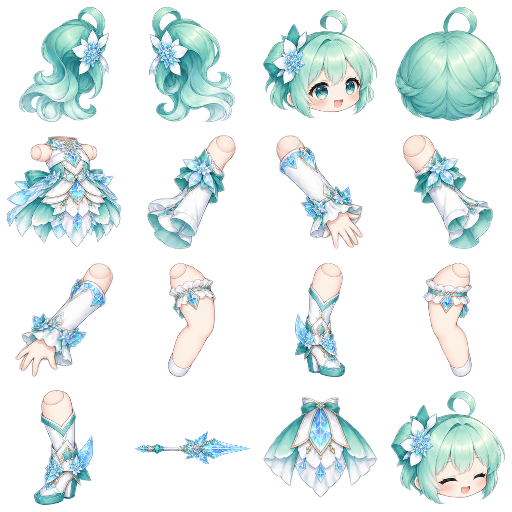
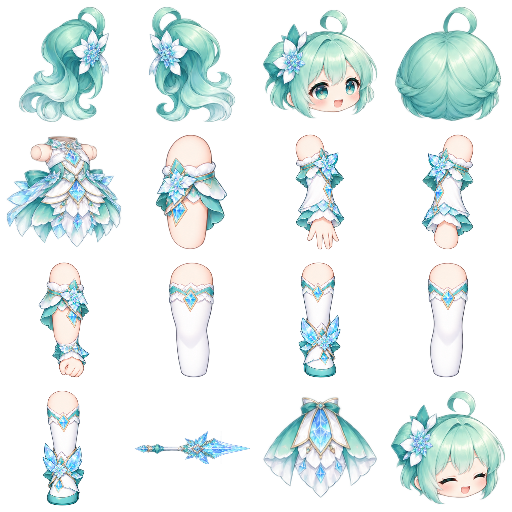
fix(art): rebuild Mint neutral limbs and calibrate joint anchors — v6.0.58

diff --git a/game.js b/game.js
@@ -50,7 +50,7 @@ function clampPlayerStats(p){ if(p._uqGlass){p.maxhp=Math.max(1,Math.round(p.max
 const TAU = Math.PI * 2;   // global — Game scene (บอส/VFX) อ้างถึง TAU ด้วย เดิมประกาศเฉพาะใน Boot.create → "TAU is not defined"
 
 /* ---- เวอร์ชัน + บันทึกUpdates (build-www ดึงไปทำ version.json ให้หน้า download) ---- */
-const GAME_VERSION = '6.0.57';
+const GAME_VERSION = '6.0.58';
 // Miniboss rewards: choose damage at an HP cost, or recovery.
 const CROSSROADS=[
   {id:'blood',name:'Blood Pact',desc:'+25% damage for 90 seconds',detail:'Lose 30% of current HP',artKey:'prize_jackpot',color:0xff6f9d},
@@ -60,6 +60,7 @@ const CROSSROADS=[
 const HURT_IFRAME_MUL = 0.6;
 const RELEASES_URL = 'https://github.com/hardza1230/Survival-like-Mobile-Game/releases/download/latest/mochi-mayhem-debug.apk';
 const CHANGELOG = [
+  { v:'6.0.58', date:'2026-10-01', title:'Mint neutral limb rebuild', items:['Repainted straight bind-pose limbs replace baked bent arms and legs','Shoulder, elbow and hand anchors calibrated to the painted joints','Matched boot stance and relaxed lance grip preserve a coherent silhouette'] },
   { v:'6.0.57', date:'2026-10-01', title:'Mint rig gait and grip correction', items:['Planted feet and two-bone knee solving prevent crossed legs','Shorter chibi stride and distance-based gait smooth walking','Lance remains attached to the hand through casts; relaxed arm pose'] },
   { v:'6.0.56', date:'2026-10-01', title:'Mint 2D cutout rig trial', items:['Painted head, twin tails, arms, legs and lance animate on a joint hierarchy','Walking continues during upper-body lance attacks; hair follows dash movement','Mint keeps its existing physics, skills and saves; original sprites remain as fallback'] },
   { v:'6.0.55', date:'2026-10-01', title:'Temple layout, character EXP and digging fixes', items:['Core gem markers and button labels align with their painted sockets','Sugar balance is capped at 9,999,999 across all save paths','Stage results animate permanent character EXP and move Sugar x2 below rewards','Digging cancels stale animation callbacks and preserves earned treasure when leaving'] },
@@ -4119,12 +4120,12 @@ const ACHIEVEMENTS=[
 ];
 
 // Mint cutout rig: hierarchical bones, rigid painted skins; no mesh/runtime dependency.
-const MINT_RIG_FRAMES = [{"x":18,"y":6,"w":92,"h":116},{"x":148,"y":6,"w":88,"h":116},{"x":262,"y":9,"w":116,"h":110},{"x":394,"y":6,"w":108,"h":116},{"x":6,"y":135,"w":116,"h":113},{"x":146,"y":134,"w":91,"h":116},{"x":275,"y":134,"w":89,"h":116},{"x":402,"y":134,"w":92,"h":116},{"x":14,"y":262,"w":100,"h":116},{"x":167,"y":262,"w":50,"h":116},{"x":294,"y":262,"w":52,"h":116},{"x":422,"y":262,"w":51,"h":116},{"x":33,"y":390,"w":61,"h":116},{"x":134,"y":431,"w":116,"h":33},{"x":262,"y":396,"w":116,"h":103},{"x":390,"y":390,"w":116,"h":115}];
+const MINT_RIG_FRAMES = [{"x":18,"y":6,"w":92,"h":116},{"x":148,"y":6,"w":88,"h":116},{"x":262,"y":9,"w":116,"h":110},{"x":394,"y":6,"w":108,"h":116},{"x":6,"y":135,"w":116,"h":113},{"x":155,"y":134,"w":73,"h":116},{"x":295,"y":134,"w":50,"h":116},{"x":421,"y":134,"w":53,"h":116},{"x":38,"y":262,"w":52,"h":116},{"x":168,"y":262,"w":47,"h":116},{"x":298,"y":262,"w":43,"h":116},{"x":427,"y":262,"w":42,"h":116},{"x":42,"y":390,"w":43,"h":116},{"x":134,"y":431,"w":116,"h":33},{"x":262,"y":396,"w":116,"h":103},{"x":390,"y":390,"w":116,"h":115}];
 const MINT_RIG_BONES = [
   ['hip',null,0,0],['torso','hip',0,-1],['head','torso',0,-14],
   ['hairL','head',-11,-14],['hairR','head',11,-14],
-  ['armL','torso',-10,-5],['foreL','armL',-5,11],
-  ['armR','torso',10,-5],['foreR','armR',5,11],['lance','foreR',-5,11],
+  ['armL','torso',-7.5,-4],['foreL','armL',0,8],
+  ['armR','torso',8,-4],['foreR','armR',0,8],['lance','foreR',0,8.5],
   ['thighL','hip',-5,9],['shinL','thighL',0,8],
   ['thighR','hip',5,9],['shinR','thighR',0,8],['skirt','torso',0,8]
 ];
@@ -4133,9 +4134,9 @@ const MINT_RIG_SKINS = [
  ['hairL',0,16,29,.55,.12,0],['hairR',1,16,29,.45,.12,1],
  ['thighL',9,7,9,.45,.08,2],['shinL',10,9,13,.45,.06,3],
  ['thighR',11,7,9,.5,.08,4],['shinR',12,9,13,.5,.06,5],
- ['armL',5,12,17,.80,.10,6],['foreL',6,11,17,.23,.1,7],
+ ['armL',5,8,10,.5,.08,6],['foreL',6,7,10,.5,.06,7],
  ['torso',4,30,32,.5,.30,8],['skirt',14,17,18,.5,.08,9],
- ['armR',7,12,17,.22,.10,10],['foreR',8,11,17,.79,.10,11],
+ ['armR',7,8,10,.5,.08,10],['foreR',8,7,10,.5,.06,11],
  ['lance',13,44,12,.17,.5,12],['head',2,35,33,.5,.76,13]
 ];
 // Downward-axis two-bone IK. Each foot stays in its own screen-space lane.
@@ -4152,13 +4153,13 @@ function mintRigPose(time,phase,move,cast,dash,hurt){
  const step=Math.sin(phase),breath=Math.sin(time*3),
    thrust=Math.sin(Math.PI*Math.max(0,Math.min(1,cast))),
    left=mintRigLeg(phase,move,1),right=mintRigLeg(phase+Math.PI,move,-1),
-   arm=-.28-.65*thrust-.18*dash,fore=.95-.15*thrust;
+   arm=-.65-.6*thrust-.12*dash,fore=.35+.6*thrust+.12*dash;
  return {hip:{y:-Math.abs(step)*.55*move+breath*.18},
   torso:{rotation:-.025*move-.065*thrust-.10*dash+.08*hurt},
   head:{rotation:.015*breath+.015*step*move+.025*thrust-.05*hurt},
   hairL:{rotation:.06*Math.sin(phase-.75)*move+.025*Math.sin(time*2.3)-.2*dash},
   hairR:{rotation:.055*Math.sin(phase-.95)*move+.025*Math.sin(time*2.3+.6)-.18*dash},
-  armL:{rotation:.04-.065*step*move-.14*dash+.08*hurt},foreL:{rotation:-.12},
+  armL:{rotation:.035-.065*step*move-.12*dash+.08*hurt},foreL:{rotation:.035},
   armR:{rotation:arm},foreR:{rotation:fore},
   lance:{rotation:-arm-fore-.07},
   thighL:{rotation:left.thigh},shinL:{rotation:left.knee},

diff --git a/docs/MINT_RIG_TRIAL.md b/docs/MINT_RIG_TRIAL.md
@@ -34,3 +34,11 @@ Automated tests exercise production forward kinematics, moving casts, constant s
 ## v6.0.57 gait and grip correction
 
 User device review found the first gait unnatural. Opposed thigh swings could cross the feet in frontal projection. The cast also translated the lance away from its hand joint. Replaced the gait with two-bone IK (8/12px links), separate left/right foot lanes, 2.3px swing lift, 0.65px depth stride and fixed upright boots. Chibi legs are shorter; presentation root is shifted 8px to meet the existing ground shadow. Walk phase follows distance, and stop does not drift the gait clock. Reduced torso and hair movement. The weapon joint is fixed to the hand; arm extension performs the attack. Updated production-pose previews and regression tests. Mobile review remains required; the attachment is a still image and cannot establish the exact timing of the reported animation.
+
+## v6.0.58 neutral limb art rebuild
+
+The v6.0.57 preview still exposed the first source atlas defect: limbs had diagonal poses baked into the paint, while joints were driven as straight bones. Correcting timing did not correct the painted silhouette. Eight replacement neutral limbs are archived in `assets/incoming/mint_rig/mint_neutral_limbs_source.png`. The built-in imagegen tool used the original Mint sheet and prior parts atlas as references. No head, torso, hair or weapon artwork was replaced.
+
+Generation brief: four columns by two rows, one detached limb per cell, transparent background, no separators or labels. Left upper arm, left forearm plus relaxed hand, right upper arm, right forearm plus gripping fist; left thigh, left calf plus boot, right thigh, right calf plus boot. Require straight vertical bind pose, centered top/bottom joints, matched limb thickness and length, short chibi proportions, soft painted mint/white ice fantasy details, complete hidden overlaps, no baked bent elbows or knees and forward-facing matched boots.
+
+`node scripts/pack-mint-rig.cjs` now automatically overlays the replacement limbs via `scripts/pack-mint-rig-limbs.cjs` and refreshes inline runtime frame bounds. Upper arm links are 8px; right palm attachment is at local (0,8.5). All arm skin joints have centered horizontal origins. Shoulders are calibrated against torso artwork at (-7.5,-4) and (8,-4). Preview contact sheet and 96-frame GIF reviewed. Automated checks/build pass; user review in gameplay is still pending.

diff --git a/CLAUDE.md b/CLAUDE.md
@@ -1,3 +1,7 @@
+## Mint neutral limb art rebuild — v6.0.58
+
+Device/preview feedback still showed bent arms and inward boots. Previous gait fixes did not correct baked diagonal source skins. Repainted eight neutral vertical limb parts with imagegen, retaining head/torso/hair/lance. Centered shoulder/elbow/hand skin origins, matched short link lengths, moved shoulders onto painted torso sockets, shortened arm chain and calibrated fist/lance attachment. Packer replaces limb slots and refreshes inline frame bounds reproducibly. Production-pose contact sheet and GIF reviewed; Full tests/build pass; real-device visual confirmation pending. See docs/MINT_RIG_TRIAL.md.
+
 ## Mint gait / grip correction — v6.0.57
 
 Replaced opposed frontal leg swinging with two-bone IK foot targets in separate lanes. Smaller stride and lift, upright boots, shorter chibi legs, root aligned to existing ground shadow. Distance-based phase independent of frame rate, smoother torso/hair motion. Relaxed right elbow and attached lance: no local hand-to-weapon translation during casts. Regression checks cover 360 moving/casting samples without crossed feet, planted boot angles and equal phase at 30/60 FPS. Preview updated; real-device motion review still pending.
